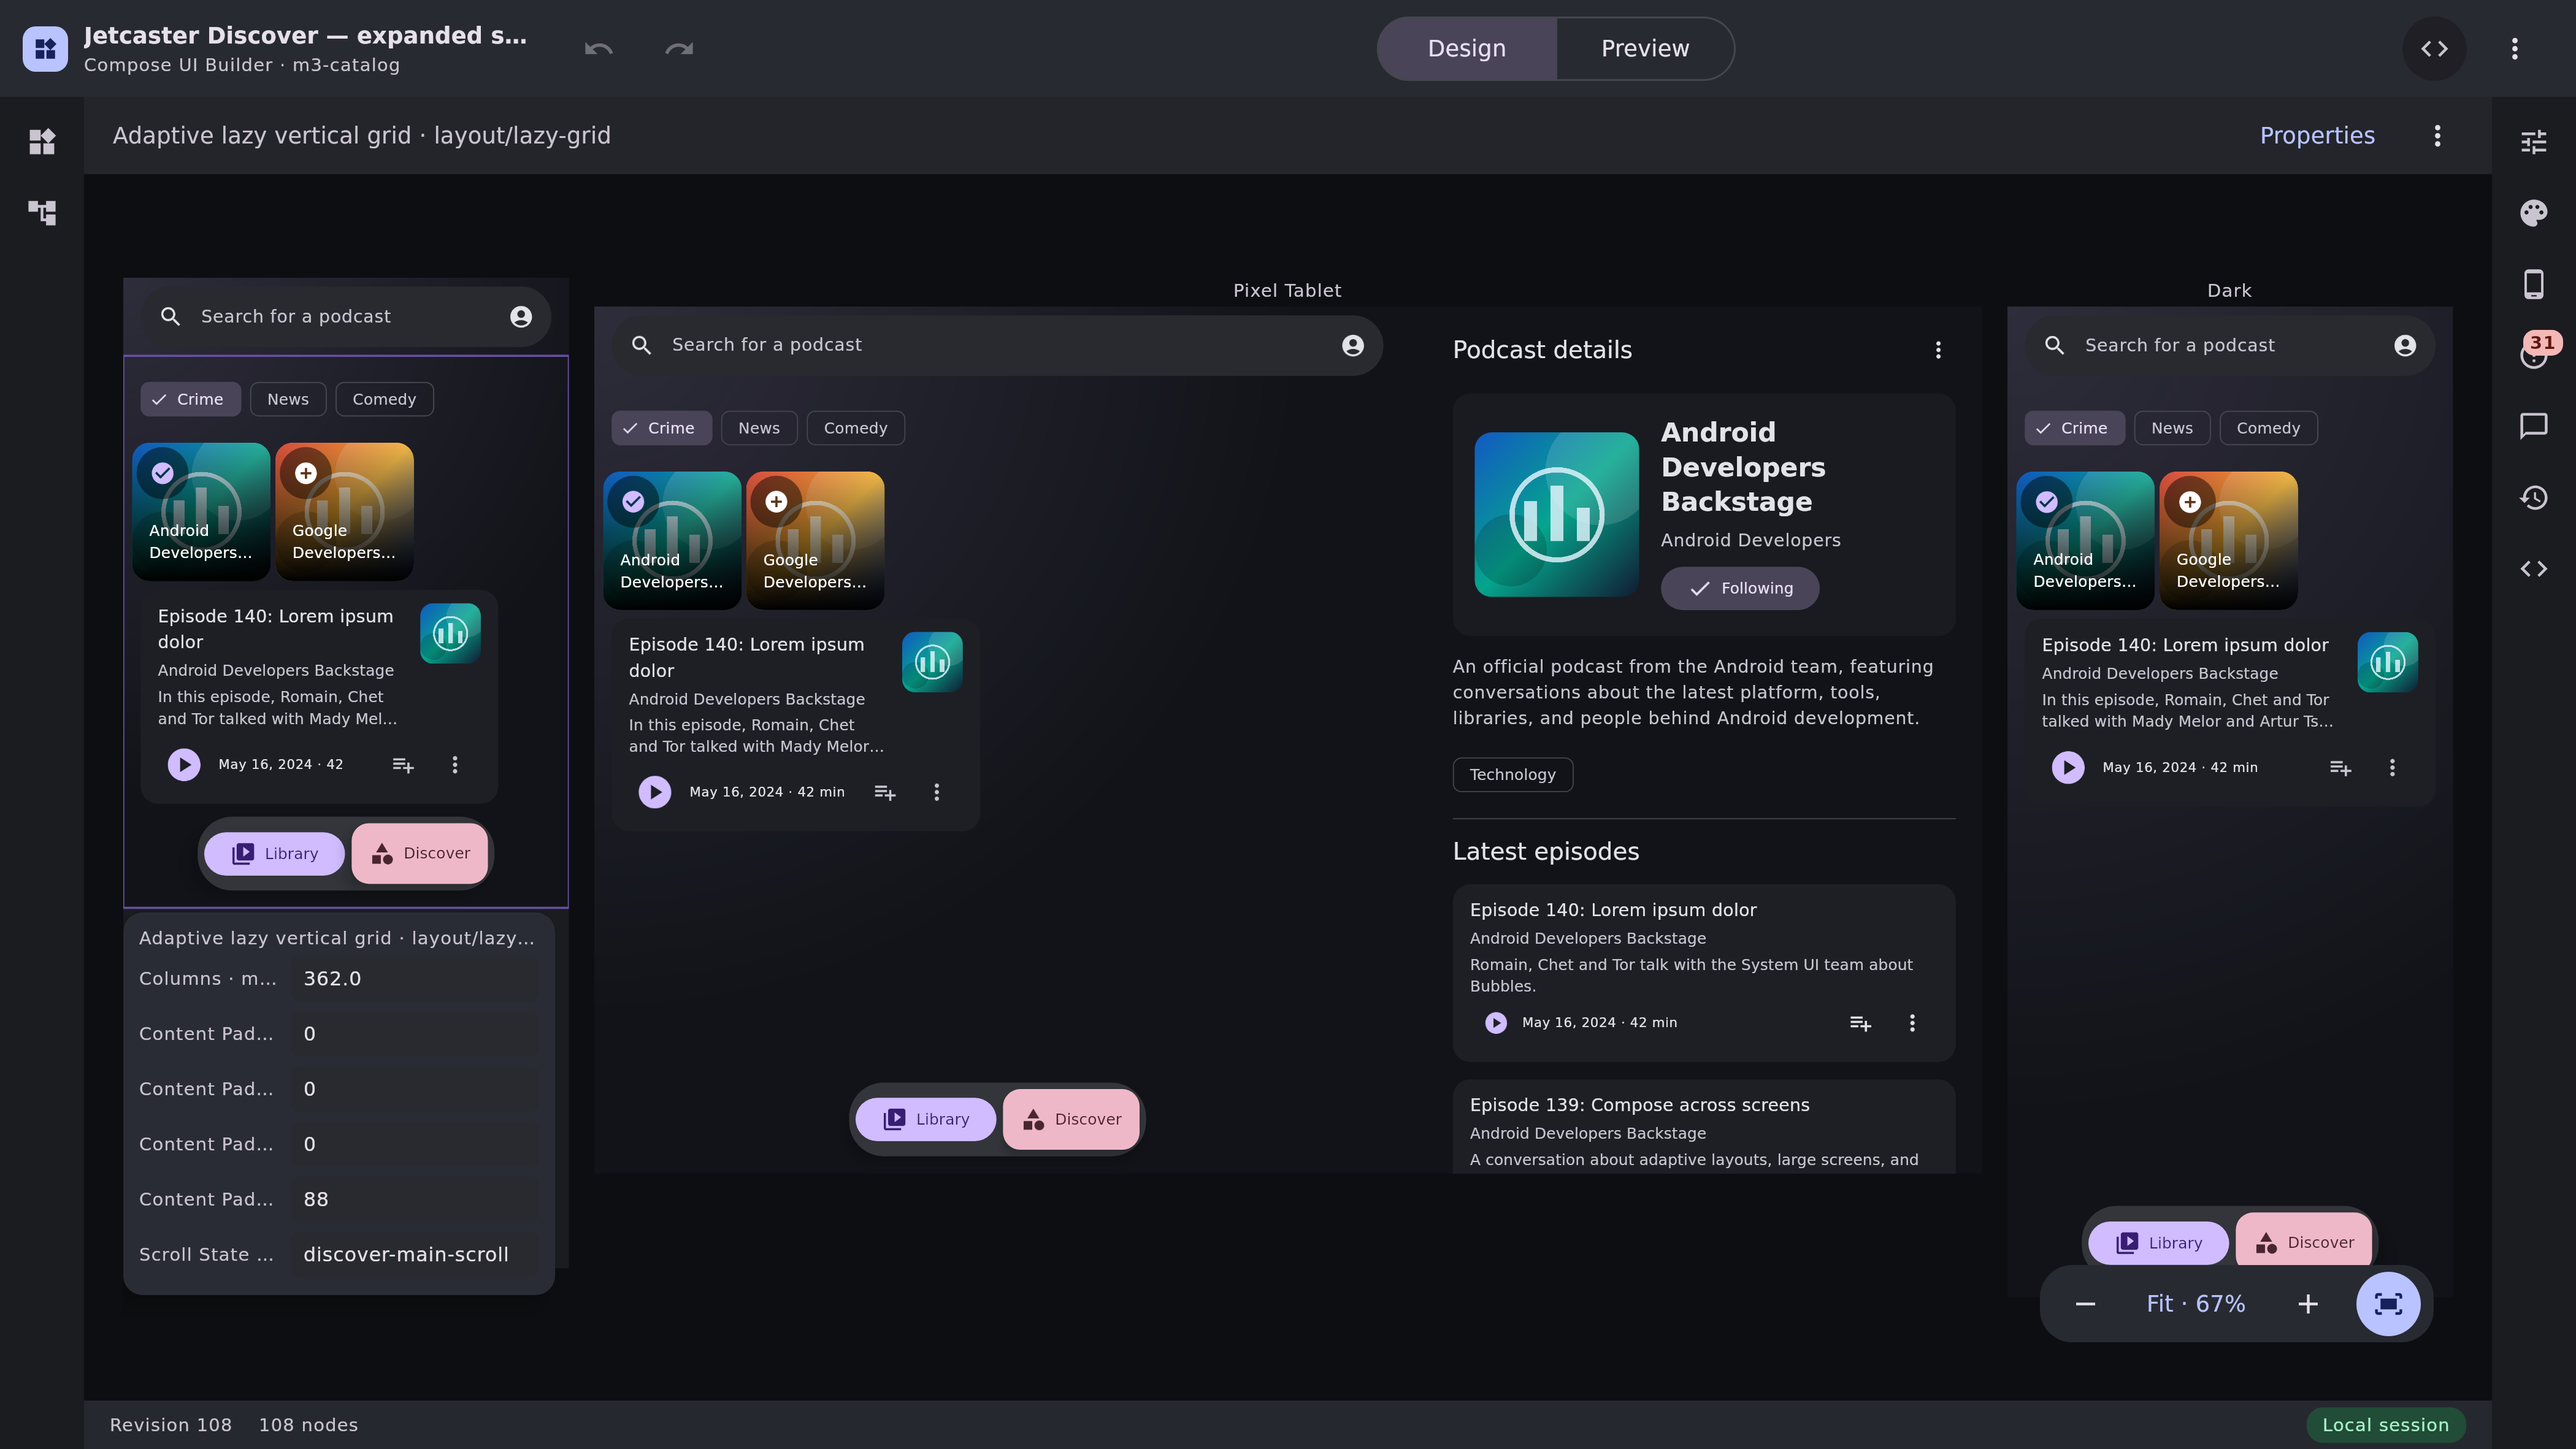
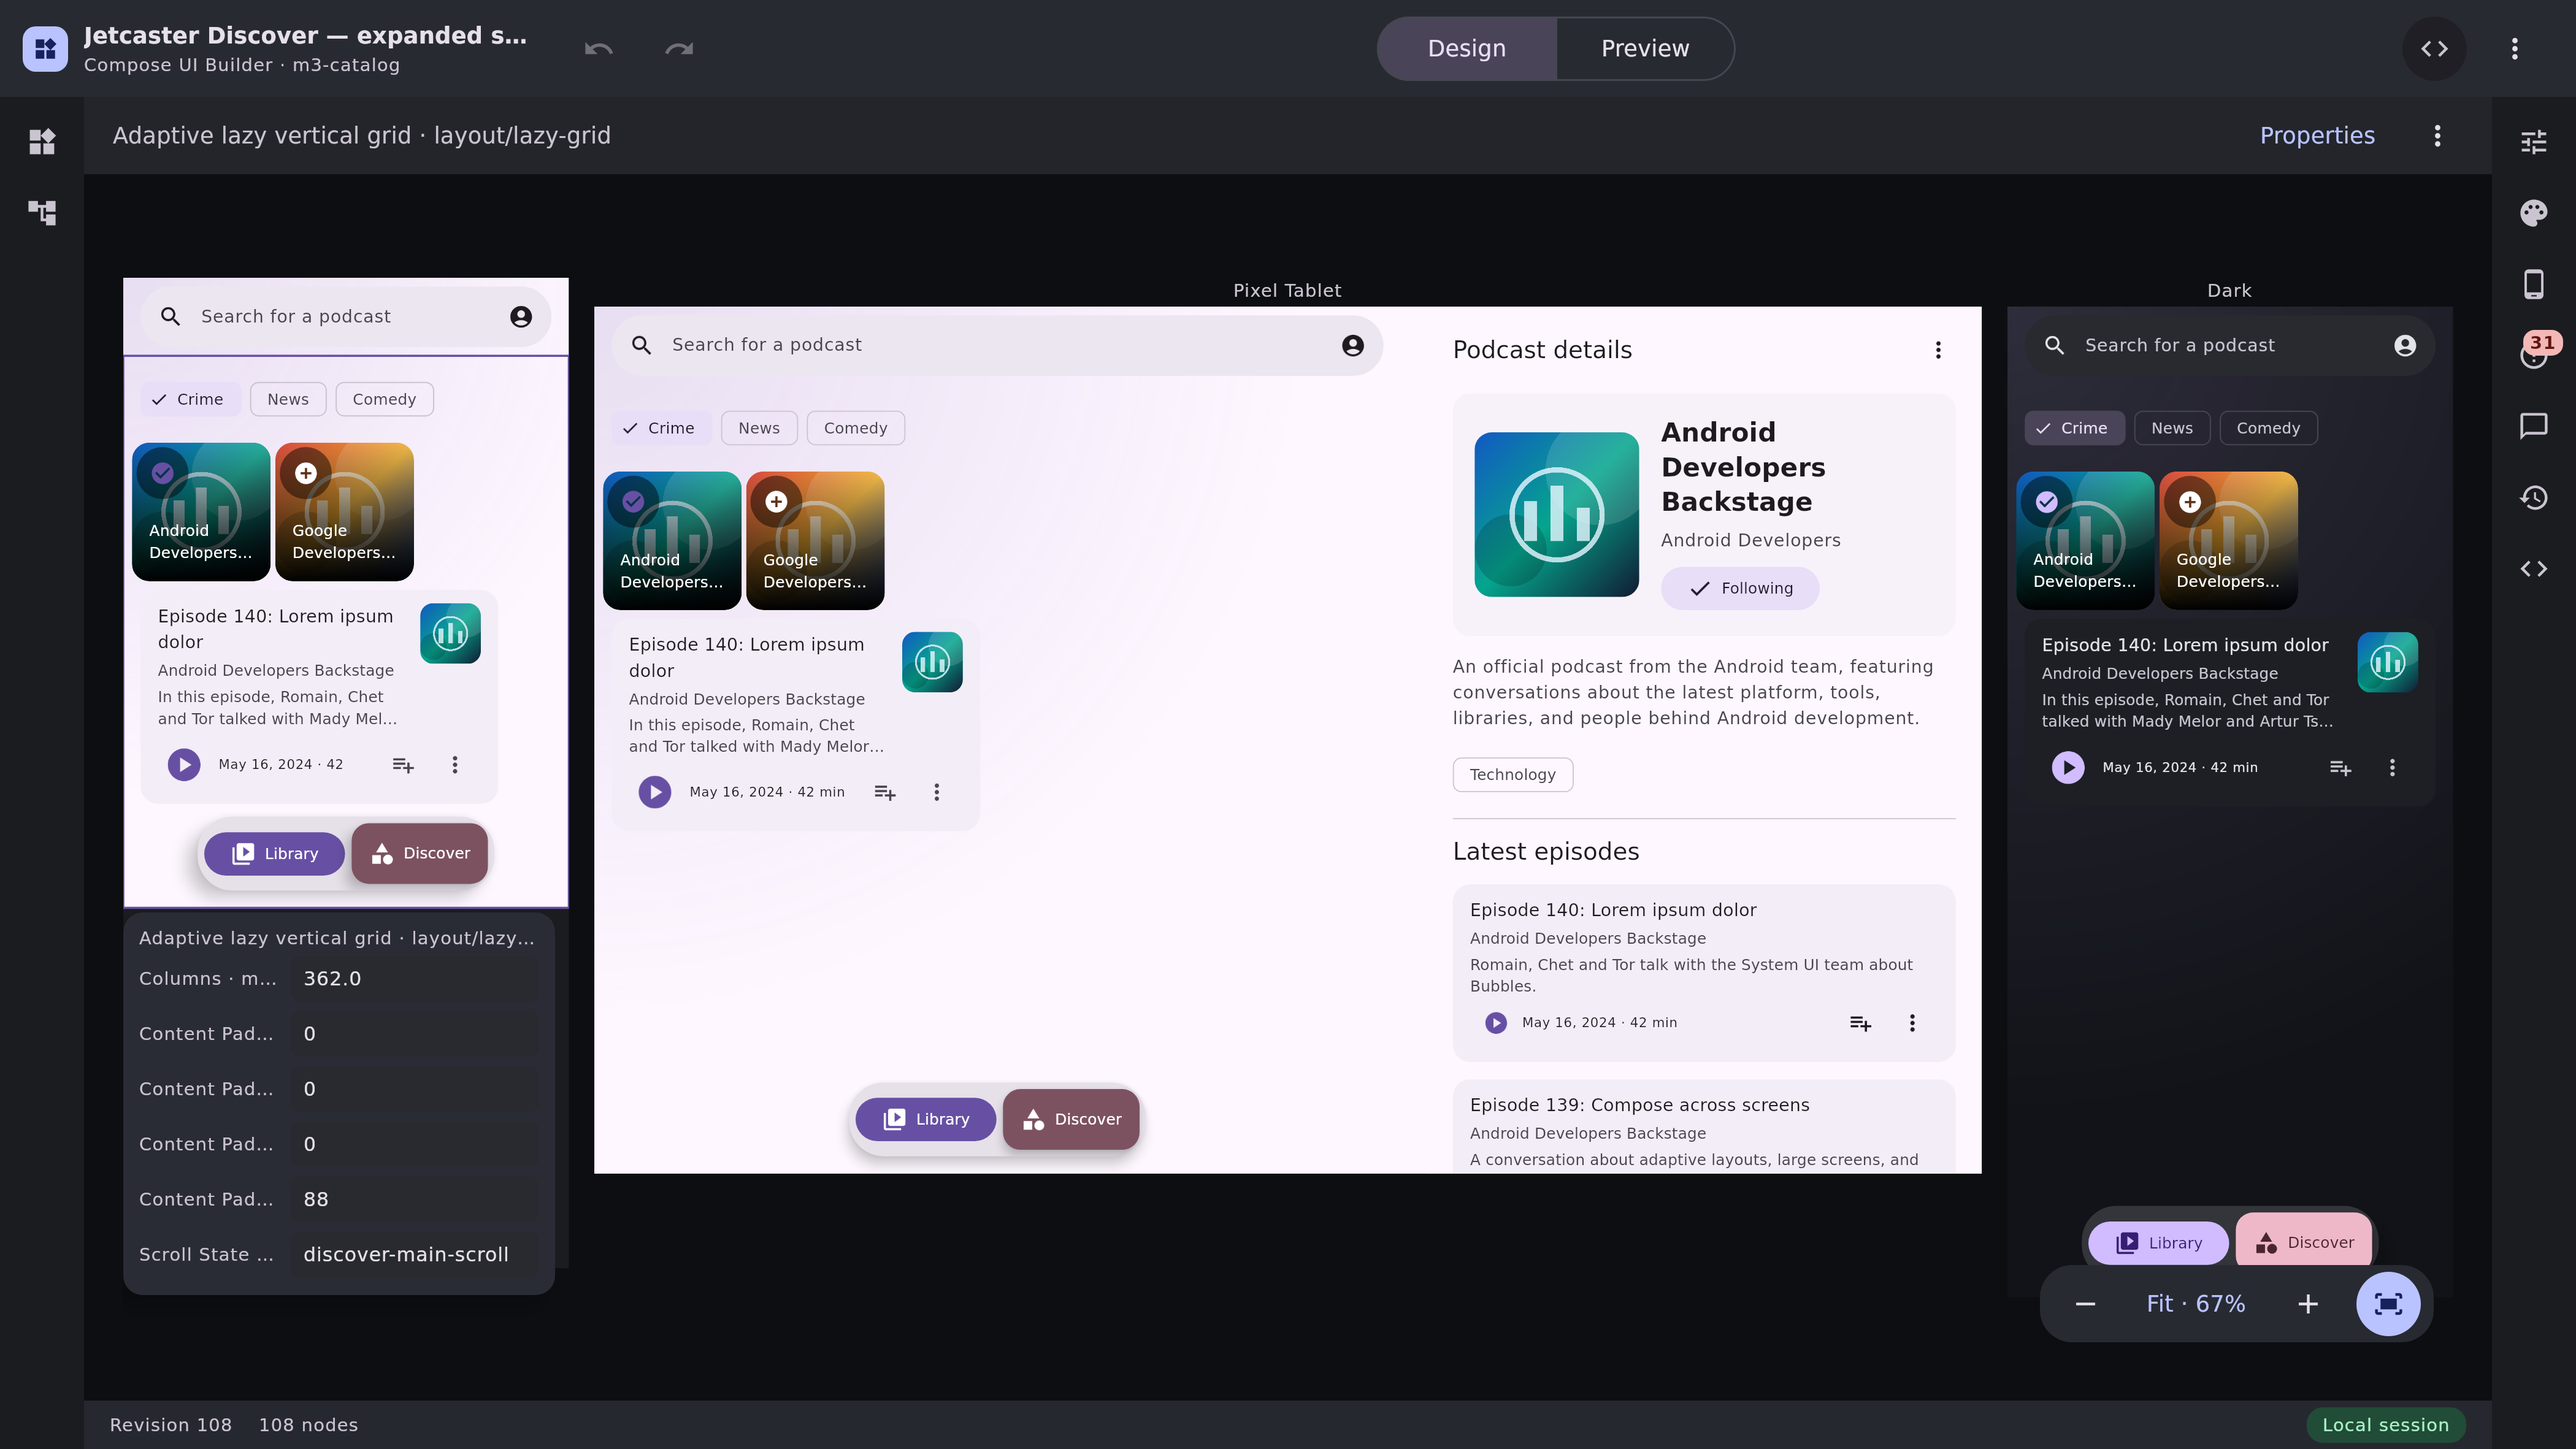
fix(ui-builder): make the Dark variant pane a real variant, and state the concurrent-wrap gap
From the sixth Codex pass on #600, and it caught my own evidence being vacuous.

The strip's preview drew its Dark pane over the Jetcaster fixture, whose
environment is already `"theme": "dark"` — so the third pane was identical in
theme to the first two. It proved a pane gets laid out and nothing whatever
about the override reaching the colours, which is most of what the pane is for.
The preview's design is light now, so the Dark pane is visibly a variant, and
`variant-strip.after.png` is re-rendered. A variant that matches the design it
varies is a finding, the same way a before/after pair of identical images is.

Also stated, not fixed: two collaborators pressing Add beside on the same
non-board root from one base revision. The wrap is an insert plus a move and it
does not rebase, so the second command's move pulls the root out of the first
board, leaves two boards at the top, and `requireSingleRoot` refuses that whole
Add. Nothing is lost — it is a rejection, and the next Add appends into the
board that now exists — but it is a real gap against the concurrent-insertion
guarantee in UI_BUILDER_PRODUCT_SPEC.md, and the design doc now says so rather
than leaving it to be discovered. Closing it means rebasing a command against a
concurrent one, which the reducer does for nothing today; that belongs with the
structural-versioning work the same review surfaced.

The fifth agent-attribution report cites `ad9acb2a…`, which does not exist in
[…]

diff --git a/ui-builder/src/jvmMain/kotlin/ee/schimke/composeai/uibuilder/UiBuilderEditorChromePreview.kt b/ui-builder/src/jvmMain/kotlin/ee/schimke/composeai/uibuilder/UiBuilderEditorChromePreview.kt
@@ -779,7 +779,12 @@ fun UiBuilderBoardPreview() {
 @Composable
 fun UiBuilderVariantStripPreview() {
   UiBuilderEditor(
-    document = editorChromePreviewDocument.onDevice(PREVIEW_PHONE).claiming(PREVIEW_TABLET),
+    // Light, deliberately: the fixture's own environment is `"theme": "dark"`, so a Dark axis over
+    // it drew a third pane identical in theme to the first two — a picture that proves a pane is
+    // laid out and nothing about the override reaching the colours. A before/after pair whose two
+    // images match is a finding, and so is a variant that matches the design it varies.
+    document =
+      editorChromePreviewDocument.onDevice(PREVIEW_PHONE).claiming(PREVIEW_TABLET).inLightTheme(),
     catalog = editorChromePreviewCatalog,
     initialSelectedNodeId = "discover-grid",
     initialVariantAxes = setOf(EditorVariantAxis.Dark),
@@ -812,6 +817,10 @@ private fun UiBuilderDocument.onCanvasFrame(): UiBuilderDocument =
           )
       )
   )
+
+/** This design under the light scheme, so a Dark variant beside it is visibly a variant. */
+private fun UiBuilderDocument.inLightTheme(): UiBuilderDocument =
+  copy(environment = JsonObject(environment + mapOf("theme" to JsonPrimitive("light"))))
 
 /** This design claiming it also works on [preset] — the stored set the variant strip draws. */
 private fun UiBuilderDocument.claiming(preset: UiBuilderDevicePreset): UiBuilderDocument =

diff --git a/docs/design/UI_BUILDER_CANVAS_FRAMES_VARIANTS.md b/docs/design/UI_BUILDER_CANVAS_FRAMES_VARIANTS.md
@@ -205,6 +205,24 @@ point 2). Rather than smuggle them through a field that means something else, th
 they are: a way of *looking*, which costs nothing to be wrong about and is reversible by switching it
 off. If one later earns a place in the document, it graduates when the contract can carry it.
 
+### Two people wrapping the same root at once
+
+The wrap is an insert plus a move, and it does not rebase. Two collaborators who press Add beside on
+the same *non-board* root from one base revision each build their own board; the second command's
+move then pulls the root out of the first board and leaves two of them at the top, so
+`requireSingleRoot` refuses the whole second Add — including the item that motivated it.
+
+That is narrower than it sounds and it loses nothing: the refusal is a rejection, not a corruption,
+and the second author's next Add appends into the board that now exists and succeeds. It is still a
+gap against the concurrent-insertion guarantee in
+[`UI_BUILDER_PRODUCT_SPEC.md`](UI_BUILDER_PRODUCT_SPEC.md) ("concurrent insertions retain both nodes
+in server order/position-key order"), and it is the one place this feature does not meet it.
+
+Closing it means rebasing a command against a concurrent one — recognising at apply time that the
+root has become somebody else's board and appending into that instead of wrapping again. The reducer
+rebases nothing today, so that is a change to the collaboration model rather than to this feature,
+and it belongs with the structural-versioning work the same review surfaced.
+
 ## What this is not
 
 - **Not a second document.** A variant is the same tree under a different frame. There is nothing to

diff --git a/renders/ui-builder-board-and-variants/README.md b/renders/ui-builder-board-and-variants/README.md
@@ -13,6 +13,12 @@ unpins: what is *in* a design, what it is *measured in*, and how many pictures o
 | `frame-inspector.before.png` | `UiBuilderDevicePresetPhonePreview` rendered at `origin/main` |
 | `frame-inspector.after.png` | the same preview on this branch |
 
+The strip's preview puts its design under the **light** scheme, which is not incidental: the
+Jetcaster fixture's own environment is `"theme": "dark"`, so a Dark axis over it drew a third pane
+identical in theme to the first two — a picture proving a pane is laid out and nothing about the
+override reaching the colours. A variant that matches the design it varies is a finding, the same way
+a before/after pair of identical images is.
+
 ## What each pair shows
 
 **The board.** Read the two side by side: the insert panel's destination line goes from "Adds beside
